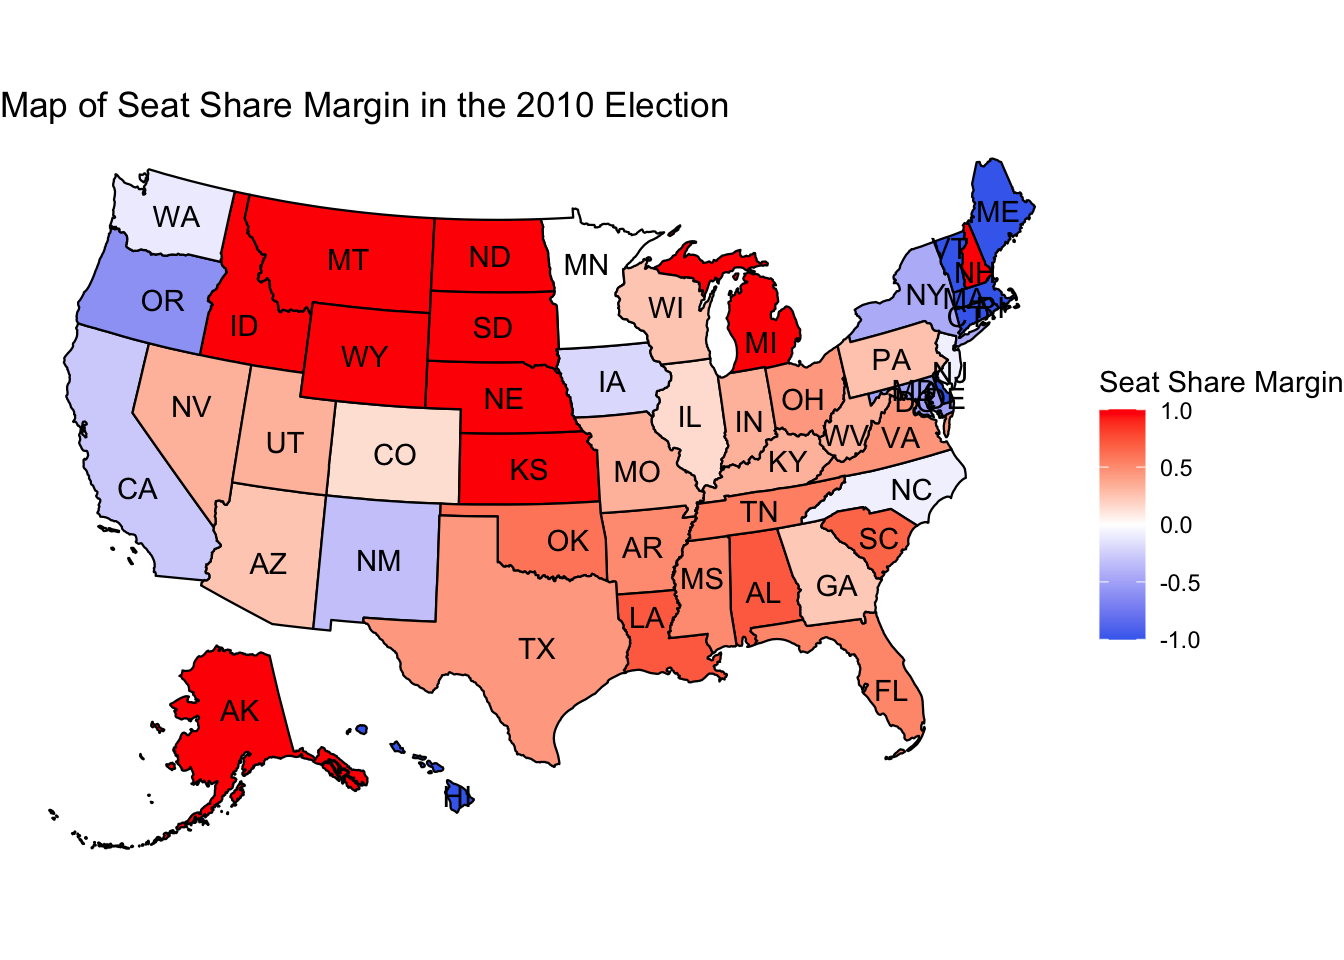
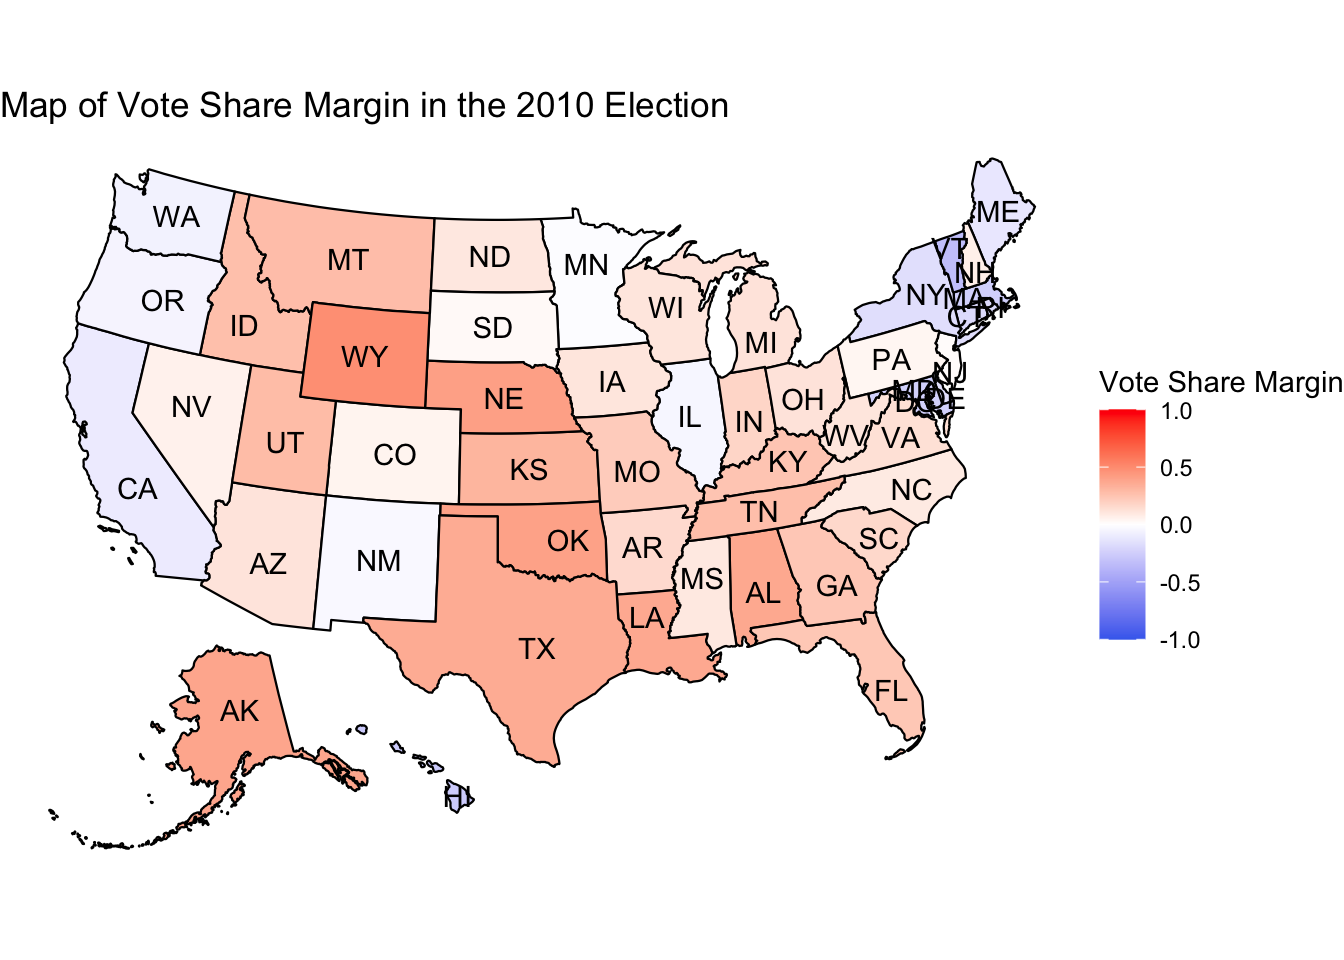
blogdown update

diff --git a/public/post/2022-09-14-test-post-1/index.html b/public/post/2022-09-14-test-post-1/index.html
@@ -6,7 +6,7 @@
 		<meta charset="UTF-8">
 		<meta name="viewport" content="width=device-width, initial-scale=1.0">
 
-		<title>Test Post 1 &middot; My New Hugo Site</title>
+		<title>Blog Post 1: Gerrymandering: Tensions of Vote Share and Seat Share &middot; My New Hugo Site</title>
 
 		
 		<link rel="stylesheet" href="/css/style.css">
@@ -56,7 +56,7 @@
         <span>on&nbsp;</span><time datetime="2022-09-14 00:00:00 &#43;0000 UTC">September 14, 2022</time>
 </div>
 
-		<h1 class="post-title">Test Post 1</h1>
+		<h1 class="post-title">Blog Post 1: Gerrymandering: Tensions of Vote Share and Seat Share</h1>
 <div class="post-line"></div>
 
 		
@@ -67,65 +67,15 @@
 <p>Hi everyone! Welcome to the wild world that will be my Election Analytics blog. Before we get into the nitty gritty, allow me to introduce myself. I’m Julia Blank, a junior at Harvard College studying Government on the Data Science Track with a secondary in Computer Science. In my free time, you can find me writing for Harvard Sports Analytics, dancing with the Harvard Dance Team, or as I sit right now, hunkered down in the basement of CGIS south pondering the niche questions of this midterm election. I’m finally putting some pen to paper thanks to Professor Ryan Enos’ course Election Analytics this semester. So check back in with me each week to stay up to date with my thoughts on elections past and present as we rapidly approach the 2022 election.</p>
 <p>For today, I’m looking to the past to inform a bit more about our present. To begin, I’m investigating the question: Given the very real process of gerrymandering, how does vote share and seat share line up in a midterm election? In order to explore this question, I have chosen to look at the election year 2010. 2010 was a unique midterm election that is often referred to as the “Red Sweep”. In 2008, former President Obama took office and the Senate and House of Representatives were all dominated by the Democratic Party. The years between were quite chaotic with the financial crisis and unemployment. Going into the midterm elections, the nation was anxious to see how people would respond to this Democratic dominance in the Presidency and legislature.</p>
 <p>To begin to answer the questions on the impact of districting, I first had to look at the vote share across the nation in the election for the House of Representatives in 2010. To do so, I obtained data that illustrates the number of votes Republicans and Democrats received in every district in America. To calculate vote share by party in each state, I took all the districts within one state and calculated a collective vote share margin for Republicans by adding up all Republican Votes and taking it as a proportion of all votes cast for Republicans and Democrats. I then calculated the same vote share for the Democratic Party. In order to see the margin in vote share, I subtracted the Republican Vote Share from the Democrats Vote Share. As such, in the image below you can see that larger margin numbers correspond to red and a stronger Republican party while more negative numbers correspond to a blue and a stronger Democratic party vote share.</p>
-<pre><code>## ── Attaching packages ─────────────────────────────────────── tidyverse 1.3.1 ──</code></pre>
-<pre><code>## ✔ ggplot2 3.3.5     ✔ purrr   0.3.4
-## ✔ tibble  3.1.6     ✔ dplyr   1.0.7
-## ✔ tidyr   1.2.0     ✔ stringr 1.4.0
-## ✔ readr   2.1.2     ✔ forcats 0.5.1</code></pre>
-<pre><code>## ── Conflicts ────────────────────────────────────────── tidyverse_conflicts() ──
-## ✖ dplyr::filter() masks stats::filter()
-## ✖ dplyr::lag()    masks stats::lag()</code></pre>
-<pre><code>## Rows: 16067 Columns: 31
-## ── Column specification ────────────────────────────────────────────────────────
-## Delimiter: &quot;,&quot;
-## chr (16): Office, State, Area, RepCandidate, RepStatus, DemCandidate, DemSta...
-## dbl (14): raceYear, RepVotes, DemVotes, ThirdVotes, OtherVotes, PluralityVot...
-## lgl  (1): CensusPop
-## 
-## ℹ Use `spec()` to retrieve the full column specification for this data.
-## ℹ Specify the column types or set `show_col_types = FALSE` to quiet this message.</code></pre>
+<pre class="r"><code>knitr::opts_chunk$set(echo = FALSE, message = FALSE, warning = FALSE) </code></pre>
 <pre><code>##  [1] &quot;AL&quot; &quot;AK&quot; &quot;AZ&quot; &quot;AR&quot; &quot;CA&quot; &quot;CO&quot; &quot;CT&quot; &quot;DE&quot; &quot;DC&quot; &quot;FL&quot; &quot;GA&quot; &quot;HI&quot; &quot;ID&quot; &quot;IL&quot; &quot;IN&quot;
 ## [16] &quot;IA&quot; &quot;KS&quot; &quot;KY&quot; &quot;LA&quot; &quot;ME&quot; &quot;MD&quot; &quot;MA&quot; &quot;MI&quot; &quot;MN&quot; &quot;MS&quot; &quot;MO&quot; &quot;MT&quot; &quot;NE&quot; &quot;NV&quot; &quot;NH&quot;
 ## [31] &quot;NJ&quot; &quot;NM&quot; &quot;NY&quot; &quot;NC&quot; &quot;ND&quot; &quot;OH&quot; &quot;OK&quot; &quot;OR&quot; &quot;PA&quot; &quot;RI&quot; &quot;SC&quot; &quot;SD&quot; &quot;TN&quot; &quot;TX&quot; &quot;UT&quot;
 ## [46] &quot;VT&quot; &quot;VA&quot; &quot;WA&quot; &quot;WV&quot; &quot;WI&quot; &quot;WY&quot;</code></pre>
-<p><img src="http://example.org/post/2022-09-14-test-post-1/index_files/figure-html/unnamed-chunk-1-1.png" width="672" /></p>
+<p><img src="http://example.org/post/2022-09-14-test-post-1/index_files/figure-html/unnamed-chunk-2-1.png" width="672" /></p>
 <p>In the image above, we can see a predominately Republican landscape in terms of vote share margin. This “red wave” demonstrates a leading positive vote share margin in favor of republicans in most of the country. There are a few predictable pockets of a Democratic vote share lead in the North East and on the West Coast. Uniquely in this map, while the Republicans swept the landscape the margin in vote share between the two parties never reached a greater magnitude than a 0.5 lead. Such is the nature of our two party system, where one party even if they lead rarely ever leads by a vote share margin of 1.</p>
 <p>With the map of vote share margin between the two parties in mind, we can now compare the similarities in the seat share for that very same election. To examine this, instead of looking at the amount of votes each party one we look at the number of seats a party one in a given state. To find the margin of seat share, I subtracted the Republican seat share value from the Democratic seat share value. As such, the corresponding map associates a larger more positive margin value with Republican seat share success and a more negative margin value with Democratic seat share success.</p>
-<pre class="r"><code>#setwd(&#39;~/Documents/GOV 50 PROJECTS/electionanalytics&#39;)
-Gerry_2010 &lt;- read_csv(&#39;Gov 1347/export.csv&#39;, col_names = TRUE, skip = 2) </code></pre>
-<pre><code>## Warning: One or more parsing issues, see `problems()` for details</code></pre>
-<pre><code>## Rows: 56 Columns: 14
-## ── Column specification ────────────────────────────────────────────────────────
-## Delimiter: &quot;,&quot;
-## chr (14): Office, RaceDate, CensusPop, Area, RepWinner, DemWinner, OtherWinn...
-## 
-## ℹ Use `spec()` to retrieve the full column specification for this data.
-## ℹ Specify the column types or set `show_col_types = FALSE` to quiet this message.</code></pre>
-<pre class="r"><code>Gerry_2010$Area &lt;- as.character(Gerry_2010$Area)
-Gerry_2010$DemWinner &lt;- as.numeric(Gerry_2010$DemWinner)</code></pre>
-<pre><code>## Warning: NAs introduced by coercion</code></pre>
-<pre class="r"><code>Gerry_2010$RepWinner &lt;- as.numeric(Gerry_2010$RepWinner)</code></pre>
-<pre><code>## Warning: NAs introduced by coercion</code></pre>
-<pre class="r"><code>Gerry_2010clean &lt;- Gerry_2010 %&gt;%
-  slice(-c(51:56))
-  
- # drop_na()
-
-#%&gt;%
-Gerry_2010final&lt;- Gerry_2010clean %&gt;%
-  group_by(Area)%&gt;%
-  mutate(R_seatmarg = (sum(RepWinner))/sum(RepWinner + DemWinner),
-         D_seatmarg = (sum(DemWinner))/sum(RepWinner + DemWinner)) %&gt;%
-  mutate(Margin_diff = R_seatmarg - D_seatmarg) %&gt;%
-  rename(state = Area)
-  
-plot_usmap(data = Gerry_2010final, regions = &quot;states&quot;, values = &quot;Margin_diff&quot;, labels = TRUE) +
-#facet_wrap(facets = raceYear ~.) +
-  scale_fill_gradient2(low = &quot;royalblue2&quot;, mid = &quot;white&quot;, high = &quot;red&quot;, name = &quot;Seat Share Margin&quot;, limits = (c(-1,1))) +
-  theme(legend.position=&quot;top&quot;) +
-  labs(title = &quot;Map of Seat Share Margin in the 2010 Election&quot;)+
-  theme_void()</code></pre>
-<p><img src="http://example.org/post/2022-09-14-test-post-1/index_files/figure-html/unnamed-chunk-2-1.png" width="672" />
+<p><img src="http://example.org/post/2022-09-14-test-post-1/index_files/figure-html/unnamed-chunk-3-1.png" width="672" />
 In the map of seat share, the strength of the Republican party seen in the vote share map seems to be even stronger. Uniquely, the colors in this map of seat share margin is much more vivid than that of vote share margin, demonstrating a clear dissonance between the two metrics. While in the map of vote share the Republican party could see small leads in vote share across the nation, the map of seat share demonstrates a stark dominance. Even for the Democratic party, in places where they had slight leads in vote margin like Maine or New Mexico, they ended up receiving a much larger margin of seats for the state.</p>
 <p>So, why does this happen? The answer is the unique process of districting and the complexity of Gerrymandering in the US electoral system. Gerrymandering as a process requires drawing and manipulating the boundaries of districts in order to favor a party of another. Through tactics of fragmentation and packing, parties can draw districts to give themselves a seat share advantage. It’s important to note that gerrymandering won’t appear in vote share margins but will impact the seat share. As illustrated by the 2010 maps, the seat share almost always exacerbates the margin of vote share. Numerous states, like Michigan, that only saw small leads in vote share will see massive margins in seat share.</p>
 <p>In fact, the very process of Gerrymandering can take a minority party in vote share and make them the dominant party when it comes to taking seats in the house. In the case of 2010, the most notable examples of this are North Carolina and Iowa. Both of these states had a larger Republican vote share margin but flipped to see a larger Democratic margin when it came to seat share. In the case of these states, it is clear that the Democrats were concentrated in a few districts (1, 2, 3) while the Republican majority was strongest in just two districts (4,5). With numerous states flipping party dominance based on the metric chosen, be it vote share or seat share, it is important to note this feature of our democratic system. The result of elections do change quite drastically from vote share as districting transforms these calculations to seat share.</p>
@@ -149,7 +99,7 @@ In the map of seat share, the strength of the Republican party seen in the vote 
         		<footer>
 			
 			<span>
-			&copy; <time datetime="2022-09-15 09:50:08.732119 -0400 EDT m=&#43;4.487507461">2022</time> . Made with <a href='https://gohugo.io'>Hugo</a> using the <a href='https://github.com/EmielH/tale-hugo/'>Tale</a> theme.
+			&copy; <time datetime="2022-09-15 09:54:14.229063 -0400 EDT m=&#43;14.067989380">2022</time> . Made with <a href='https://gohugo.io'>Hugo</a> using the <a href='https://github.com/EmielH/tale-hugo/'>Tale</a> theme.
 			</span>
 		</footer>
 

diff --git a/public/index.html b/public/index.html
@@ -55,7 +55,7 @@
 			<a href="http://example.org/post/2022-09-14-test-post-1/" class="catalogue-item">
     <div>
         <time datetime="2022-09-14 00:00:00 &#43;0000 UTC" class="catalogue-time">September 14, 2022</time>
-        <h2 class="catalogue-title">Test Post 1</h2>
+        <h2 class="catalogue-title">Blog Post 1: Gerrymandering: Tensions of Vote Share and Seat Share</h2>
         <div class="catalogue-line"></div>
 
         <p>
@@ -79,7 +79,7 @@
         		<footer>
 			
 			<span>
-			&copy; <time datetime="2022-09-15 09:50:06.862949 -0400 EDT m=&#43;2.618354488">2022</time> . Made with <a href='https://gohugo.io'>Hugo</a> using the <a href='https://github.com/EmielH/tale-hugo/'>Tale</a> theme.
+			&copy; <time datetime="2022-09-15 09:54:00.225956 -0400 EDT m=&#43;0.065011686">2022</time> . Made with <a href='https://gohugo.io'>Hugo</a> using the <a href='https://github.com/EmielH/tale-hugo/'>Tale</a> theme.
 			</span>
 		</footer>
 

diff --git a/public/post/index.html b/public/post/index.html
@@ -50,7 +50,7 @@
 			<a href="http://example.org/post/2022-09-14-test-post-1/" class="catalogue-item">
     <div>
         <time datetime="2022-09-14 00:00:00 &#43;0000 UTC" class="catalogue-time">September 14, 2022</time>
-        <h2 class="catalogue-title">Test Post 1</h2>
+        <h2 class="catalogue-title">Blog Post 1: Gerrymandering: Tensions of Vote Share and Seat Share</h2>
         <div class="catalogue-line"></div>
 
         <p>
@@ -74,7 +74,7 @@
         		<footer>
 			
 			<span>
-			&copy; <time datetime="2022-09-15 09:50:06.862925 -0400 EDT m=&#43;2.618330878">2022</time> . Made with <a href='https://gohugo.io'>Hugo</a> using the <a href='https://github.com/EmielH/tale-hugo/'>Tale</a> theme.
+			&copy; <time datetime="2022-09-15 09:54:00.225885 -0400 EDT m=&#43;0.064940297">2022</time> . Made with <a href='https://gohugo.io'>Hugo</a> using the <a href='https://github.com/EmielH/tale-hugo/'>Tale</a> theme.
 			</span>
 		</footer>
 

diff --git a/public/categories/index.html b/public/categories/index.html
@@ -57,7 +57,7 @@
         		<footer>
 			
 			<span>
-			&copy; <time datetime="2022-09-15 09:50:06.859987 -0400 EDT m=&#43;2.615392323">2022</time> . Made with <a href='https://gohugo.io'>Hugo</a> using the <a href='https://github.com/EmielH/tale-hugo/'>Tale</a> theme.
+			&copy; <time datetime="2022-09-15 09:54:00.224504 -0400 EDT m=&#43;0.063559998">2022</time> . Made with <a href='https://gohugo.io'>Hugo</a> using the <a href='https://github.com/EmielH/tale-hugo/'>Tale</a> theme.
 			</span>
 		</footer>
 

diff --git a/public/tags/index.html b/public/tags/index.html
@@ -57,7 +57,7 @@
         		<footer>
 			
 			<span>
-			&copy; <time datetime="2022-09-15 09:50:06.860083 -0400 EDT m=&#43;2.615488701">2022</time> . Made with <a href='https://gohugo.io'>Hugo</a> using the <a href='https://github.com/EmielH/tale-hugo/'>Tale</a> theme.
+			&copy; <time datetime="2022-09-15 09:54:00.224593 -0400 EDT m=&#43;0.063648594">2022</time> . Made with <a href='https://gohugo.io'>Hugo</a> using the <a href='https://github.com/EmielH/tale-hugo/'>Tale</a> theme.
 			</span>
 		</footer>
 

diff --git a/content/post/2022-09-14-test-post-1/index.html b/content/post/2022-09-14-test-post-1/index.html
@@ -1,5 +1,5 @@
 ---
-title: 'Blog Post 1: Gerrymandering: Tensions of Vote Share and Seat Share'
+title: 'Blog Post 1 Gerrymandering: Tensions of Vote Share and Seat Share'
 author: "Julia Blank"
 date: '2022-09-14'
 output:
